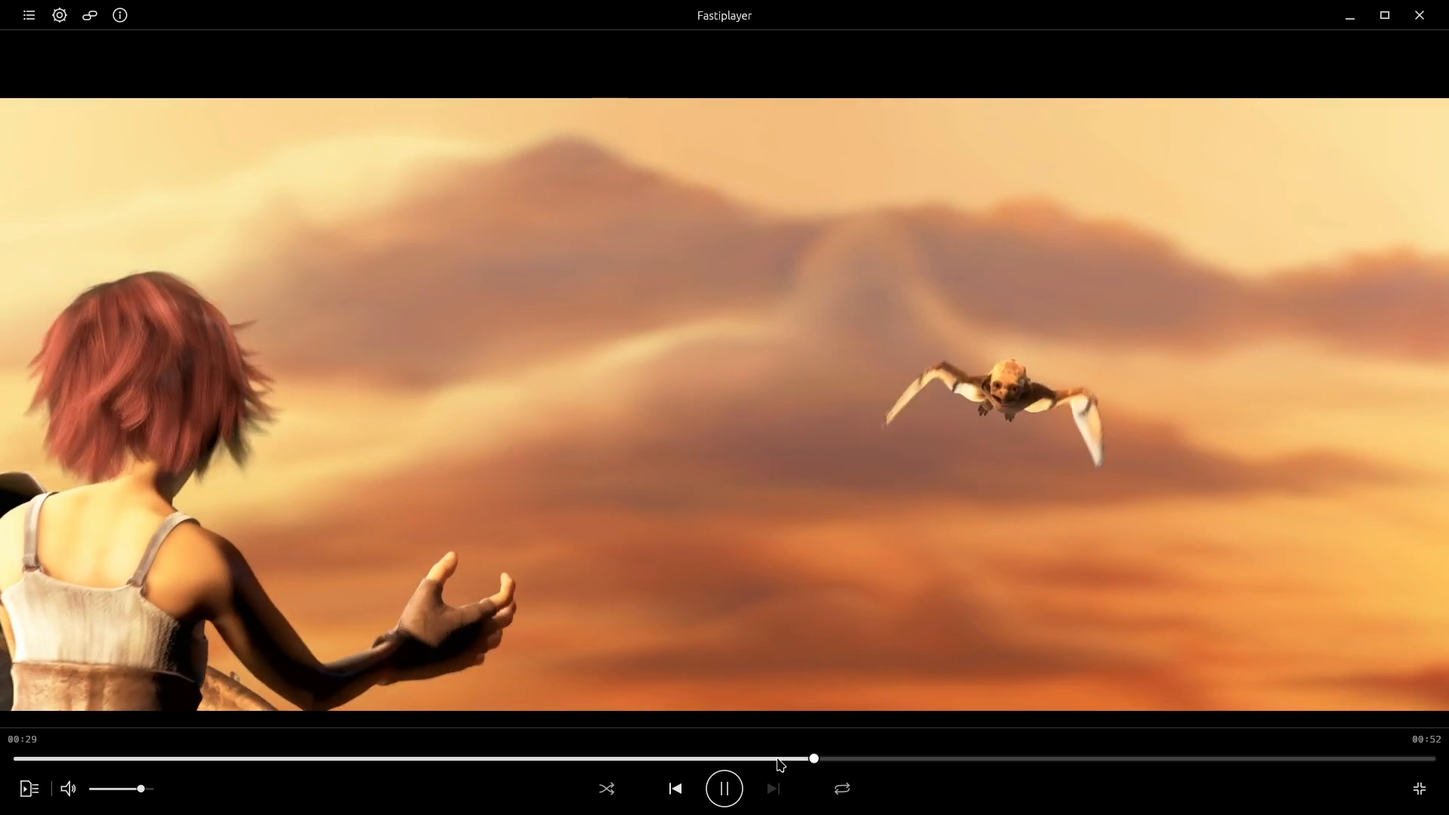
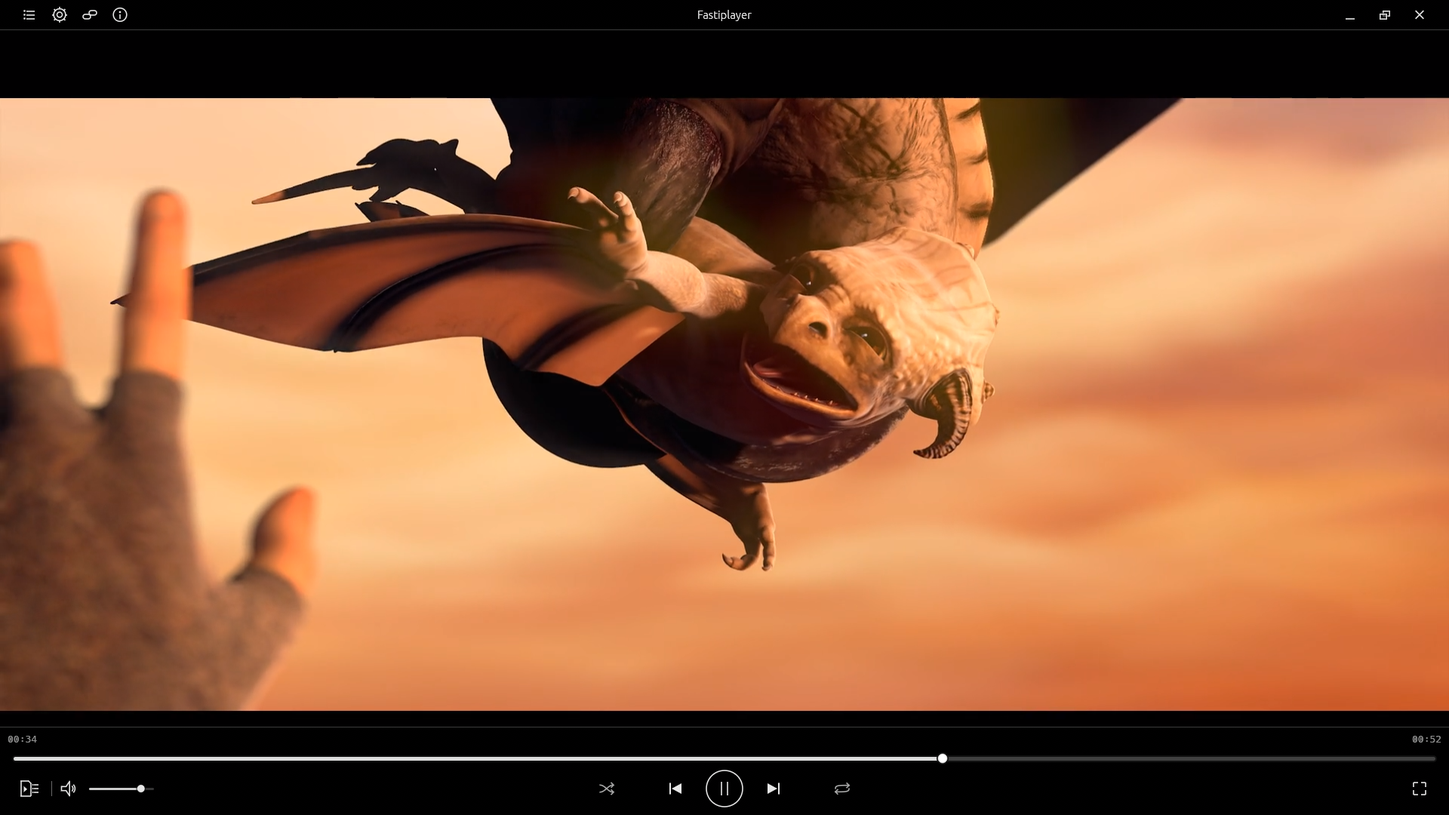
README: продающая подача и свежие скриншоты текущего интерфейса
Шапка с обещанием в одну строку, раздел «Why Fastiplayer», сжатые
оговорки, установка для Arch/CachyOS, честная таблица памяти/CPU
против VLC со ссылкой на #10. Якоря #quick-start/#current-limitations
переименованы в #try-it/#good-to-know, ссылки в документах обновлены.

Скриншоты playback и queue пересняты 2026-10-11 в изолированной
сессии KWin (Sintel и Big Buck Bunny, CC BY 3.0); fastiplayer-main.png
для release notes alpha.1 не тронут. Происхождение и SHA-256 — в
docs/assets/README.md.

diff --git a/README.md b/README.md
@@ -2,136 +2,148 @@
   <img src="docs/assets/fastiplayer-mark.svg" alt="Fastiplayer logo on a dark background" width="128">
 </p>
 
-# Fastiplayer
+<h1 align="center">Fastiplayer</h1>
 
-An open media player built around a simple ambition: **lightweight, beautiful, responsive playback, with the controls you need close at hand.**
+<p align="center">
+  <b>A fast, good-looking media player for Linux, written in Rust.</b><br>
+  Scrub through video like in an editor. Speed it up without chipmunk voices. Tune the picture while it plays.
+</p>
 
-**Early alpha · Active development · Linux-first · Source builds**
+<p align="center">
+  <a href="https://www.youtube.com/watch?v=eMfzBhpSF8M"><b>▶ Watch the 72-second trailer</b></a> ·
+  <a href="#try-it">Try it</a> ·
+  <a href="#roadmap-to-10">Roadmap</a> ·
+  <a href="docs/vision.md">Vision</a>
+</p>
 
-Fastiplayer already plays local and network media. The everyday experience is still taking shape: expect rough edges, incomplete compatibility, and a mix of English and Russian in the interface. Build from source to try it today.
-
-**[See it in action](#see-it-in-action) · [Build and run](#quick-start) · [Roadmap to 1.0](#roadmap-to-10) · [Vision](docs/vision.md)**
-
-[![CI](https://github.com/Bogdan7c/fastiplayer/actions/workflows/ci.yml/badge.svg)](https://github.com/Bogdan7c/fastiplayer/actions/workflows/ci.yml)
-[![Toolchain policy](https://github.com/Bogdan7c/fastiplayer/actions/workflows/toolchain-policy.yml/badge.svg)](https://github.com/Bogdan7c/fastiplayer/actions/workflows/toolchain-policy.yml)
-[![License: MIT](https://img.shields.io/badge/license-MIT-blue.svg)](LICENSE)
-
-## See it in action
+<p align="center">
+  <a href="https://github.com/Bogdan7c/fastiplayer/actions/workflows/ci.yml"><img src="https://github.com/Bogdan7c/fastiplayer/actions/workflows/ci.yml/badge.svg" alt="CI"></a>
+  <a href="https://github.com/Bogdan7c/fastiplayer/actions/workflows/toolchain-policy.yml"><img src="https://github.com/Bogdan7c/fastiplayer/actions/workflows/toolchain-policy.yml/badge.svg" alt="Toolchain policy"></a>
+  <a href="LICENSE"><img src="https://img.shields.io/badge/license-MIT-blue.svg" alt="License: MIT"></a>
+</p>
 
 [![Watch Fastiplayer: live scrubbing, speed and real-time color — 72-second trailer](docs/assets/fastiplayer-trailer-cover.png)](https://www.youtube.com/watch?v=eMfzBhpSF8M)
 
-**[Watch the 72-second trailer on YouTube →](https://www.youtube.com/watch?v=eMfzBhpSF8M)** — **1080p60, with sound.** Change playback speed, drag forward and backward through the main picture, adjust video color during playback, and see the panels and controls move.
+<sub>Real application footage, 1080p60 with the player's own sound. Film: <i>Sintel</i> © copyright Blender Foundation, CC BY 3.0 · <a href="docs/demo.md">timecodes and screenshots</a> · <a href="docs/assets/README.md">capture details</a></sub>
 
-Real application footage recorded in OBS and edited in DaVinci Resolve, with continuous demonstrations at their captured speed. The soundtrack is the player's actual output from the authorized film, with no added music or voice-over. Film and audio: **Sintel © copyright Blender Foundation**, CC BY 3.0. See [timecodes and screenshots](docs/demo.md) and [attribution and capture details](docs/assets/README.md). This is a product demonstration on the current development computer, separate from the historical ThinkPad T480s measurements.
+> **Early alpha.** Fastiplayer already plays local files and network streams every day, but it is young: Linux only, built from source, and parts of the interface are still in Russian. If you like trying things early and telling the author what breaks, you are exactly who it is for.
 
-## What guides the project
+## Why Fastiplayer
 
-- **Lightness.** Keep resource use deliberate, with bounded work and measured optimization. Low overhead is a development priority; published results show both gains and remaining costs.
-- **Beauty.** Give playback room to breathe, with a coherent interface and attention to small details. Completing that design across the application is ongoing work.
-- **Responsiveness.** Make play, pause, seeking, and navigation feel immediate. Diagnose delays at the point where the user sees or hears the result.
-- **Control.** Put useful choices within reach, from queue navigation to runtime settings. Broader appearance customization is planned.
-- **Depth that serves everyday use.** Bring local files, network sources, playlists, and capable media processing together in one understandable player.
+<p align="center">
+  <img src="docs/assets/fastiplayer-playback.png" alt="Fastiplayer playing Sintel in a maximized window: a hand reaching for a young dragon against a golden sky, with the timeline and playback controls below" width="820">
+</p>
 
-Read the [vision](docs/vision.md) for the longer view and the multimedia architecture behind it.
+**Scrubbing that feels like an editor.** Grab the timeline and drag in either direction: the main picture follows your hand, not a tiny thumbnail. Let go and playback continues from there.
+
+**Speed without chipmunks.** Go from 1.0× to 1.5× and back: voices keep their pitch, and the change is instant.
+
+**Live picture controls.** Brightness, contrast, saturation, and per-channel color change on the running video, with instant preview and one-click reset.
+
+**Hardware-accelerated and light on memory.** VA-API decoding on supported GPUs, Vulkan rendering through WGPU, and GPU HDR-to-SDR tone mapping. In a recorded test, Fastiplayer held under 90 MiB of RAM on 1080p60 and 4K60, where VLC used 127–300 MiB ([details](#performance)).
+
+**Plays what you throw at it.** Drop files, folders, playlists, or links into the window. Local media, HTTP(S)/FTP(S), HLS and DASH (VOD, live, and DVR), internet radio, and — with optional `yt-dlp` — web pages.
+
+**A queue that remembers.** M3U/M3U8, XSPF, and CUE playlists, import and export, and playback resumes where you stopped.
 
 ## What works today
 
-- **Local video and audio**, playback controls, seeking, and stream selection within supported media profiles. Video uses VA-API hardware decoding where supported, or FFmpeg software decoding, with WGPU/Vulkan rendering.
-- **Playback speed with pitch-preserving time stretching.** Hear the pace change from 1.0× to 1.5× and back in the trailer; pause preserves the picture and resume continues playback.
-- **Live timeline scrubbing.** Drag in either direction and watch the main picture follow, then release to resume playback. Ordinary playback audio pauses during the drag; this is not reverse-audio scrubbing.
-- **Drag-and-drop and "Open with".** Drop files, folders, playlists, or links into the window on Wayland or X11: dropping on the panel appends to the queue, dropping on the video starts a new queue after confirmation. Opening a file while Fastiplayer is already running hands it to the existing window.
-- **Keyboard and mouse control:** volume from the mouse wheel over the video or the arrow keys, playback-speed hotkeys, Ctrl+O, and a time hint over the timeline. Volume and mute persist between launches.
-- **Real-time video color controls**, including saturation and contrast with live preview and reset. These adjust the video image; fuller customization of the application's appearance is planned separately.
-- **Animated panels and controls** connect playback, queue navigation, and settings within the same window. The interface and settings design are still evolving.
-- **Network playback:** native progressive HTTP(S)/FTP(S), HLS and DASH VOD/live/DVR, and supported static Smooth Streaming and HDS profiles. HLS also covers audio-only streams such as internet radio, including packed ADTS AAC and MP3 segments. Web-page extraction can use optional system `yt-dlp`.
-- **A persistent queue:** M3U/M3U8, XSPF, and CUE import/export, queue navigation, and playback-position restore. Legacy `.m3u` and `.cue` files in Windows-1251 are read with a notice; a broken item is skipped with a visible reason. [See the queue](docs/demo.md#queue).
-- **Runtime settings**, live previews where supported, and controlled Apply/rollback. Some changes rebuild the affected playback component; busy operations can require a retry. [See settings](docs/demo.md#settings).
-- **GPU HDR-to-SDR tone mapping**, including verified AV1 10-bit P010 input on the SDR output path.
+<p align="center">
+  <img src="docs/assets/fastiplayer-queue.png" alt="Fastiplayer playing Sintel with the queue panel open beside the video, listing the Sintel Trailer and Big Buck Bunny" width="820"><br>
+  <sub>Films: <i>Sintel</i> and <i>Big Buck Bunny</i> © copyright Blender Foundation, CC BY 3.0 · <a href="docs/assets/README.md#2026-10-11-screenshots">capture details</a></sub>
+</p>
 
-The [media compatibility matrix](docs/web-media-compatibility-matrix.md) defines the accepted container, codec, and protocol profiles. A format or protocol name does not promise every variant.
+- **Playback:** local video and audio, seeking, audio/video stream selection, pitch-preserving speed, live scrubbing.
+- **Hardware decoding:** VA-API where the GPU and driver support it, FFmpeg software decoding otherwise; WGPU/Vulkan rendering; HDR-to-SDR tone mapping, including AV1 10-bit.
+- **Network:** progressive HTTP(S)/FTP(S), HLS and DASH VOD/live/DVR, audio-only HLS radio, static Smooth Streaming and HDS; web pages through optional system `yt-dlp`.
+- **Drag-and-drop and "Open with":** drop on the panel to append to the queue, drop on the video to start a new queue; opening a file while the player runs hands it to the existing window.
+- **Queue:** playlist import/export (including legacy Windows-1251 `.m3u`/`.cue`), position restore, broken items skipped with a clear reason.
+- **Control:** mouse-wheel and arrow-key volume, speed hotkeys, Ctrl+O, timeline time hints; volume and mute are remembered.
+- **Runtime settings** with live preview and Apply/rollback.
 
-## Current limitations
+Exact supported containers, codecs, and protocols are listed in the [compatibility matrix](docs/web-media-compatibility-matrix.md).
 
-- Linux is the current application platform. Windows is planned before 1.0; macOS is a possible later direction without a delivery commitment. There are source builds, with no ready-to-install application packages in the current release.
-- A working Vulkan GPU/driver is required even for software video decoding. Hardware acceleration depends on the device, driver, codec, and frame profile; a CPU readback fallback is not implemented.
-- Native HDR display output and subtitle playback are not implemented. Subtitle descriptors in a manifest do not imply playable subtitles.
-- The interface is unfinished and partly Russian. Cohesive redesign, localization, and fuller appearance customization remain roadmap work.
-- DRM, RTSP/RTP/MMS, RTMP wire playback, and private live extractor state are outside the supported profile. Smooth Streaming and HDS support static VOD only. Web-page extraction also depends on compatible `yt-dlp` extractors and service availability.
+## Try it
 
-See the [compatibility matrix](docs/web-media-compatibility-matrix.md) and [recorded acceptance limitations](docs/native-web-ingress-n15-acceptance.md#known-limitations) for exact exclusions and the scope of the tests.
+You need Linux x86_64, a GPU with a working Vulkan driver, and [rustup](https://rustup.rs) — the repository pins Rust **1.99.0** in [rust-toolchain.toml](rust-toolchain.toml).
 
-## Quick start
+**Arch Linux / CachyOS / Manjaro**
 
+```bash
+sudo pacman -S --needed base-devel git clang pkgconf alsa-lib ffmpeg libdrm mesa libva vulkan-icd-loader rustup
+```
 
-Build prerequisites: Linux x86_64, a Vulkan-capable GPU/driver, Rust **1.99.0** from [rust-toolchain.toml](rust-toolchain.toml), a C/C++ toolchain, `clang`/`libclang`, `pkg-config`, and development headers for ALSA, FFmpeg, GBM/DRM, and VA-API. The locked MSRV check uses Rust **1.99.0**.
-
-Ubuntu 24.04 package names, aligned with the repository's CI prerequisites:
+**Ubuntu 24.04 / Debian-based**
 
 ```bash
 sudo apt-get update
-sudo apt-get install build-essential clang libclang-dev pkg-config \
+sudo apt-get install build-essential git clang libclang-dev pkg-config \
   libasound2-dev libavcodec-dev libavutil-dev libdrm-dev libgbm-dev libva-dev \
   libvulkan1 mesa-vulkan-drivers
+```
 
+**Build and play**
+
+```bash
 git clone https://github.com/Bogdan7c/fastiplayer.git
 cd fastiplayer
 cargo build -p app-egui --release --locked
-./target/release/fastiplayer /path/to/media.mp4
+./target/release/fastiplayer /path/to/video.mp4
 ```
 
-Install Rust through rustup before building; the repository pins the toolchain. Mesa packages above do not replace the correct VA-API driver for your GPU. Supply your own local media file and run in a graphical desktop session with access to the render device and audio output.
+Also install the Vulkan and VA-API drivers for your GPU (for example `vulkan-radeon`, `vulkan-intel`, or the NVIDIA driver on Arch). For web pages, install `yt-dlp`; the accepted extractor profile uses version **2026.07.04**. Direct media links do not need it.
 
-For web-page extraction, install system `yt-dlp` separately. The repository's accepted extractor profile uses **2026.07.04**; other versions are not automatically acceptance-qualified. Supported native direct sources do not require it. See the [web-media matrix](docs/web-media-compatibility-matrix.md).
+## Good to know
 
-The default application feature includes FFmpeg software decoding. The build boundary without it is checked with:
+- **Linux only for now.** Windows is on the roadmap before 1.0; macOS may come later, without a promise.
+- **Vulkan is required**, even for software decoding. Hardware decoding depends on your GPU, driver, and codec.
+- **No subtitles yet** — they are the very next milestone. Native HDR output is not implemented; HDR is tone-mapped to SDR.
+- **The interface is unfinished** and partly in Russian. A full redesign and translations are planned.
+- **Not supported:** DRM, RTSP/RTP/MMS, RTMP. Web-page playback depends on `yt-dlp` and the site.
 
-```bash
-cargo check -p app-egui --no-default-features --locked
-```
+The [compatibility matrix](docs/web-media-compatibility-matrix.md) and [known limitations](docs/native-web-ingress-n15-acceptance.md#known-limitations) have the exact details.
 
 ## Roadmap to 1.0
 
-The next major capability is a native Rust subtitle engine. The planned sequence then develops browser handoff, the interface, customization, localization, older-hardware rendering, and Windows support. Drag-and-drop, item 7, has already landed in `main` ahead of that order; the remaining items are future capabilities, not features included in the alpha.
+The order is fixed in [milestone 1.0](https://github.com/Bogdan7c/fastiplayer/milestone/1). These are planned, not shipped:
 
+1. [Native Rust subtitle engine](https://github.com/Bogdan7c/fastiplayer/issues/1) with a published text/styled/bitmap format matrix — **next up**.
+2. [Browser media handoff bridge and extension](https://github.com/Bogdan7c/fastiplayer/issues/2).
+3. [Cohesive application redesign](https://github.com/Bogdan7c/fastiplayer/issues/3), including new settings.
+4. [Fully configurable colors and appearance](https://github.com/Bogdan7c/fastiplayer/issues/4).
+5. [Localization and first translations](https://github.com/Bogdan7c/fastiplayer/issues/5).
+6. [OpenGL ES 2.0 renderer for older Linux hardware](https://github.com/Bogdan7c/fastiplayer/issues/6).
+7. ~~[Drag-and-drop for local files and URLs](https://github.com/Bogdan7c/fastiplayer/issues/7)~~ — **done** in `main` after `v0.1.0-alpha.1`.
+8. [Native Windows support](https://github.com/Bogdan7c/fastiplayer/issues/8).
 
-The implementation order is fixed in [milestone 1.0](https://github.com/Bogdan7c/fastiplayer/milestone/1); these are planned capabilities:
+NVDEC, native HDR output, and macOS are possible later directions without dates. See the [vision](docs/vision.md) for where the project is heading.
 
-1. [Build a native Rust subtitle engine with a broad, published text/styled/bitmap format compatibility matrix.](https://github.com/Bogdan7c/fastiplayer/issues/1)
-2. [Add a browser media-handoff bridge and browser extension.](https://github.com/Bogdan7c/fastiplayer/issues/2)
-3. [Complete the cohesive application redesign, including replacement of the prototype settings UI.](https://github.com/Bogdan7c/fastiplayer/issues/3)
-4. [Make application colors and appearance fully configurable from settings.](https://github.com/Bogdan7c/fastiplayer/issues/4)
-5. [Add localization infrastructure and initial translations.](https://github.com/Bogdan7c/fastiplayer/issues/5)
-6. [Add an OpenGL ES 2.0 renderer for older Linux hardware.](https://github.com/Bogdan7c/fastiplayer/issues/6)
-7. ~~[Add drag-and-drop for local files and URLs.](https://github.com/Bogdan7c/fastiplayer/issues/7)~~ **Done in `main`** (after `v0.1.0-alpha.1`).
-8. [Complete native Windows application support.](https://github.com/Bogdan7c/fastiplayer/issues/8)
+## Performance
 
-NVDEC, native HDR output, and macOS are possible later directions, dependent on resources and hardware validation. They have no dates and do not change this order. See the [longer-term vision](docs/vision.md#beyond-the-current-roadmap).
+Fastiplayer aims to be lighter than the established players, and it publishes measurements even where it is not there yet. In the **2026-09-05 ThinkPad T480s** comparison with VLC 3.0.23 (hardware decoding, fullscreen, five scored runs):
 
-## Quality and measured performance
+| Workload | Memory (RSS): Fastiplayer | Memory (RSS): VLC | CPU: Fastiplayer | CPU: VLC |
+| --- | ---: | ---: | ---: | ---: |
+| H.264 1080p60 | **87 MiB** | 127 MiB | 16.9% | **4.8%** |
+| HEVC 4K60 | **88 MiB** | 300 MiB | 30.4% | **5.8%** |
 
-Optimization is backed by scoped evidence, with its tradeoffs visible. In the published **2026-09-05 ThinkPad T480s** comparison, Fastiplayer used less process memory and more process CPU than VLC 3.0.23:
+Fastiplayer used up to 3.4× less memory, while VLC still uses less CPU. Closing that gap is tracked in [#10](https://github.com/Bogdan7c/fastiplayer/issues/10). The numbers describe revision `9165200c` and synthetic test files; the [full report](docs/benchmarks/thinkpad-t480s.md) has the methodology, raw data, and limitations, and the [benchmark guide](docs/benchmarks/README.md) covers other experiments.
 
-| Hardware workload | Fastiplayer CPU / RSS | VLC CPU / RSS |
-| --- | ---: | ---: |
-| H.264 1080p60 | 16.88% / 87.21 MiB | 4.77% / 126.93 MiB |
-| HEVC 4K60 | 30.42% / 87.90 MiB | 5.75% / 300.23 MiB |
+Media tests check that video actually reaches rendered frames and audio produces real samples. CI runs workspace tests, strict Clippy/rustdoc, formatting, architecture boundaries, locked dependencies, and the toolchain policy — see [CI](docs/continuous-integration.md).
 
-Values are medians from five scored runs after three warm-ups; RSS is the median of per-run mean process RSS and 100% CPU means one logical CPU. Both players used the same synthetic files, AC power, fullscreen XWayland, and active audio at zero gain. Rendering and diagnostic costs differed. The HEVC source is an upscaled synthetic pattern; these results establish neither equal physical scanout nor a smoothness or decoder-efficiency ranking. They describe revision `9165200c`, not a new measurement of the current alpha. Energy and battery life were not measured. The [full T480s report](docs/benchmarks/thinkpad-t480s.md) preserves ranges, raw results, the separate AV1 software baseline, and all limitations.
+## Feedback and contributing
 
-A separate **2026-09-02 source-opening experiment** measured an 82.11% lower median time to the first consumer for native Ogg ingress versus the legacy extractor fixture. This is a fixture-based result on another machine, not whole-player startup or a VLC comparison. See the [benchmark guide and original methodology](docs/benchmarks/README.md#existing-n15-ingress-experiment).
+The most useful thing you can do right now is **build it, play your media, and say what happened.**
 
-Functional media tests reach rendered-frame submission/readback or nonzero PCM. CI checks workspace tests, strict Clippy/rustdoc, formatting, architecture boundaries, locked dependencies, and toolchain/MSRV policy. Physical display, VA-API import, and audio-device acceptance remain separate from headless tests.
+- 💬 Ideas and questions: [Discussions](https://github.com/Bogdan7c/fastiplayer/discussions)
+- 🐞 Something broke: [bug report](https://github.com/Bogdan7c/fastiplayer/issues/new?template=bug_report.yml) — a small reproducible case helps most ([Support](SUPPORT.md))
+- 🛠 Code: [Contributing](CONTRIBUTING.md) · [Architecture](ARCHITECTURE.md) · [Docs index](docs/README.md)
+- 🔒 Security issues: [private vulnerability reporting](https://github.com/Bogdan7c/fastiplayer/security/advisories/new), see [SECURITY.md](SECURITY.md)
 
-For commands and evidence, see [Contributing](CONTRIBUTING.md), [CI](docs/continuous-integration.md), and the [documentation index](docs/README.md).
+The project is also open to support with development tools and test hardware — start a thread in [Discussions](https://github.com/Bogdan7c/fastiplayer/discussions).
 
-## Try it, share feedback, or support the work
+**Bogdan Korolyov ([Bogdan7c](https://github.com/Bogdan7c))** is the sole core maintainer and makes the product and architecture decisions. Development is AI-assisted, with human decisions, review, and hands-on verification — read [how development works](docs/ai-development.md) and the public [session plans](user/).
 
-Build Fastiplayer with media you are allowed to use, and tell us where the experience works or gets in your way. [Discussions](https://github.com/Bogdan7c/fastiplayer/discussions) is open for questions and ideas; a small, reproducible [bug report](https://github.com/Bogdan7c/fastiplayer/issues/new?template=bug_report.yml) helps turn a problem into a fix. See [Support](SUPPORT.md) for reporting details and [Contributing](CONTRIBUTING.md) for the existing contribution rules.
+## License
 
-The project is open to support with development tools and equipment. To discuss useful support, start in [Discussions](https://github.com/Bogdan7c/fastiplayer/discussions).
-
-**Bogdan Korolyov ([Bogdan7c](https://github.com/Bogdan7c))** is the sole core maintainer and leads product and architecture decisions. AI assists development; human decisions, review, and functional verification remain part of the workflow. [How development works](docs/ai-development.md) · [Maintainer responsibilities](MAINTAINERS.md).
-
-For suspected vulnerabilities, use [GitHub Private Vulnerability Reporting](https://github.com/Bogdan7c/fastiplayer/security/advisories/new) and follow [SECURITY.md](SECURITY.md). Keep private media URLs, credentials, and exploit details out of public reports.
-
-First-party workspace code is [MIT licensed](LICENSE). The eight [patched upstream crates](docs/dependency-patches.toml) retain their own licenses and notices: BSD-3-Clause for cros-codecs/cros-libva, MPL-2.0 for the four Symphonia patches, MIT for wayland-scanner, and Apache-2.0 for winit. [Changelog](CHANGELOG.md) · [Existing alpha release](https://github.com/Bogdan7c/fastiplayer/releases/tag/v0.1.0-alpha.1).
+First-party code is [MIT licensed](LICENSE). The eight [patched upstream crates](docs/dependency-patches.toml) keep their own licenses: BSD-3-Clause for cros-codecs/cros-libva, MPL-2.0 for the four Symphonia patches, MIT for wayland-scanner, and Apache-2.0 for winit. [Changelog](CHANGELOG.md) · [Releases](https://github.com/Bogdan7c/fastiplayer/releases).

diff --git a/docs/assets/README.md b/docs/assets/README.md
@@ -8,12 +8,16 @@ Build: `cargo build -p app-egui --release --locked`, default features, Rust **1.
 ## Published assets
 
 - `fastiplayer-trailer-cover.png`: a genuine final-card frame at 01:10.5 from the trailer, including native Resolve titles over the captured application.
-- `fastiplayer-playback.png`: resumed playback following a live timeline drag.
-- `fastiplayer-main.png`: identical bytes to the playback screenshot, preserving the compatible path used in existing alpha release notes.
-- `fastiplayer-queue.png`: the queue sidebar with the authorized Sintel Trailer alongside playback.
+- `fastiplayer-playback.png`: playback at 00:34 of the Sintel Trailer with the window maximized and no panels open (2026-10-11 capture, see below).
+- `fastiplayer-main.png`: the original 2026-09-06 playback screenshot, kept unchanged at the path used in the existing alpha release notes.
+- `fastiplayer-queue.png`: playback at 00:29 with the queue sidebar open, holding the Sintel Trailer and Big Buck Bunny (2026-10-11 capture, see below).
 - `fastiplayer-settings.png`: video color settings during playback, with saturation deliberately raised to 2.45 to show its effect.
 
 Screenshots are **1920×1080 PNG** frames extracted from the real OBS recordings, with the recorded cursor included. The cover is extracted from the finished trailer. The player UI and movie frames are not retouched. The [demo page](../demo.md) supplies timecodes and distinguishes the demonstrated interactions from future features.
+
+### 2026-10-11 screenshots
+
+`fastiplayer-playback.png` and `fastiplayer-queue.png` were re-captured on **2026-10-11** on the same computer (Linux **7.2.9-2-cachyos**) to show the current interface. Source revision [`727d5346`](https://github.com/Bogdan7c/fastiplayer/commit/727d5346f687614aaf79567ce4b14ef07af72edf), `cargo build -p app-egui --release --locked`, Rust **1.99.0**, with a separate temporary profile and telemetry hidden. The player ran in an isolated nested KWin Wayland session at 1920×1080 with VA-API hardware decoding and WGPU/Vulkan rendering; frames are KWin screenshots of that session without a cursor, losslessly recompressed. Media: the official Sintel Trailer and Big Buck Bunny, both © copyright Blender Foundation, CC BY 3.0. The UI and movie frames are not retouched.
 
 Video is hosted on YouTube. Large recordings, film media, the DNxHR master, and the Resolve `.drp` project are kept outside Git. The previous silent 39-second MP4 is superseded by this trailer; its historical bytes remain in Git history. Existing releases and tags are unchanged.
 
@@ -53,8 +57,10 @@ Source: the official [`sintel_trailer-1080p.mp4`](https://download.blender.org/d
 | Artifact | SHA-256 |
 | --- | --- |
[10 lines of base64/hex data omitted]

diff --git a/docs/demo.md b/docs/demo.md
@@ -4,7 +4,7 @@
 
 [![Watch the Fastiplayer trailer: live scrubbing, speed and color](assets/fastiplayer-trailer-cover.png)](https://www.youtube.com/watch?v=eMfzBhpSF8M)
 
-**[Watch on YouTube — 72 seconds, 1080p60, with sound](https://www.youtube.com/watch?v=eMfzBhpSF8M)** · [Build and run](../README.md#quick-start)
+**[Watch on YouTube — 72 seconds, 1080p60, with sound](https://www.youtube.com/watch?v=eMfzBhpSF8M)** · [Build and run](../README.md#try-it)
 
 This is the real application on the current development computer, recorded in OBS Studio and edited in DaVinci Resolve. Each feature is shown in a continuous segment at its captured speed. English titles sit clear of the timeline and color controls. The interface still includes Russian text; its settings design and localization remain roadmap work.
 
@@ -27,13 +27,13 @@ Video color controls adjust the film image. Fuller customization of the applicat
 
 ![Fastiplayer playing Sintel with the main picture, timeline, and playback controls visible](assets/fastiplayer-playback.png)
 
-Local H.264 video with AAC source audio, using VA-API hardware decoding and WGPU/Vulkan rendering. This frame follows the live timeline drag and shows resumed playback. The source film runs at 24 FPS; OBS captures the application at 60 FPS.
+Local H.264 video with AAC source audio, using VA-API hardware decoding and WGPU/Vulkan rendering, in a maximized window with no panels open. This screenshot was re-captured on 2026-10-11 to show the current interface; see [capture details](assets/README.md#2026-10-11-screenshots).
 
 ## Queue
 
-![Fastiplayer queue showing the authorized Sintel Trailer beside the playing film](assets/fastiplayer-queue.png)
+![Fastiplayer queue with the Sintel Trailer and Big Buck Bunny beside the playing film](assets/fastiplayer-queue.png)
 
-The queue shares the window with playback. Only the public film name is visible; no local path appears. The trailer shows the panel opening and closing. Playlist import/export and persistence are working capabilities described in the [README](../README.md#what-works-today), but are not exercised in this short trailer.
+The queue shares the window with playback. Only public film names are visible; no local path appears. This screenshot was re-captured on 2026-10-11. The trailer shows the panel opening and closing. Playlist import/export and persistence are working capabilities described in the [README](../README.md#what-works-today), but are not exercised in this short trailer.
 
 ## Settings
 

diff --git a/CONTRIBUTING.md b/CONTRIBUTING.md
@@ -6,7 +6,7 @@ Fastiplayer is unfinished software. Trying the player and sharing reproducible f
 
 ## Choose work and the right channel
 
-1. Read the [current limitations and ordered roadmap](README.md#current-limitations), then search existing issues and pull requests before opening another one.
+1. Read the [current limitations and ordered roadmap](README.md#good-to-know), then search existing issues and pull requests before opening another one.
 2. Report broken behavior through the [bug report form](https://github.com/Bogdan7c/fastiplayer/issues/new?template=bug_report.yml). Include a small, shareable reproduction and the environment that actually failed.
 3. Use the [feature request form](https://github.com/Bogdan7c/fastiplayer/issues/new?template=feature_request.yml) for a concrete proposal with a user problem, expected behavior, and scope. General questions and exploratory ideas belong in [Discussions](https://github.com/Bogdan7c/fastiplayer/discussions); see [SUPPORT.md](SUPPORT.md) for routing.
 4. Prefer a bounded issue with clear expected behavior and an identifiable owning module. Confirm scope with the maintainer before a substantial feature or architectural change. A large roadmap issue is not automatically a beginner task; `good first issue` is appropriate only for an actually scoped small task. No such issue or assignment is promised by this guide.

diff --git a/docs/vision.md b/docs/vision.md
@@ -4,7 +4,7 @@ Watching a film, listening to an album, or opening a stream should feel easy. Fa
 
 **Early alpha · Active development · Linux-first · Source builds**
 
-That is the direction, and the alpha is a working step toward it. Live timeline scrubbing, playback speed control, real-time video color adjustments, animated controls, local and supported network playback, and queue management already exist. The interface, compatibility, installation experience, and platform coverage are still developing. [Watch the 72-second trailer with sound](https://www.youtube.com/watch?v=eMfzBhpSF8M), [see the demonstrations in detail](demo.md), [build it](../README.md#quick-start), or check the [current limitations](../README.md#current-limitations).
+That is the direction, and the alpha is a working step toward it. Live timeline scrubbing, playback speed control, real-time video color adjustments, animated controls, local and supported network playback, and queue management already exist. The interface, compatibility, installation experience, and platform coverage are still developing. [Watch the 72-second trailer with sound](https://www.youtube.com/watch?v=eMfzBhpSF8M), [see the demonstrations in detail](demo.md), [build it](../README.md#try-it), or check the [current limitations](../README.md#good-to-know).
 
 ## Lightness with evidence
 

diff --git a/SUPPORT.md b/SUPPORT.md
@@ -2,7 +2,7 @@
 
 **Early alpha · Active development · Linux-first · Source builds**
 
-Fastiplayer is unfinished software maintained by one core maintainer. There is no guaranteed response time or commercial support service. Start with the [build guide](CONTRIBUTING.md#clone-and-build-on-linux), [known limitations](README.md#current-limitations), and [media compatibility matrix](docs/web-media-compatibility-matrix.md).
+Fastiplayer is unfinished software maintained by one core maintainer. There is no guaranteed response time or commercial support service. Start with the [build guide](CONTRIBUTING.md#clone-and-build-on-linux), [known limitations](README.md#good-to-know), and [media compatibility matrix](docs/web-media-compatibility-matrix.md).
 
 | Need | Route |
 | --- | --- |
